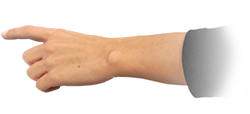
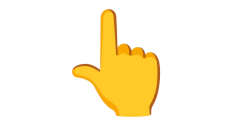
Correção do Site

diff --git a/multimidia.html b/multimidia.html
@@ -55,7 +55,20 @@
               <h1>Sons e Vídeos</h1>
             </hgroup>
           </header>
-          <p></p>
+          <p>
+            A internet discada (ou dial-up) foi a tecnologia pioneira que
+            popularizou o acesso à rede mundial entre os anos 1990 e início dos
+            anos 2000. O sistema funcionava por meio das linhas telefônicas
+            convencionais, o que significava que o telefone ficava completamente
+            ocupado durante a navegação. O processo de conexão era marcado por
+            um som característico de chiado eletrônico emitido pelo modem, e o
+            uso costumava ser concentrado nas madrugadas e finais de semana
+            devido às tarifas telefônicas mais baratas por pulso.
+          </p>
+          <p>
+            Veja um Vídeo explicatico, e logo abaixo um som característico que
+            marcou uma geração
+          </p>
           <div id="tv-radio">
             <audio
               id="musica"

diff --git a/css/estilo.css b/css/estilo.css
@@ -276,6 +276,7 @@ video#filme1 {
   header#cabecalho {
     height: auto;
     min-height: 150px;
+    padding-top: 60px;
     padding-bottom: 60px;
     background-position: 0px 15px;
   }

diff --git a/partes-computador.html b/partes-computador.html
@@ -8,7 +8,7 @@
     <style>
       body {
         font-family: Arial;
-        font-size: 10pt;
+        font-size: 8pt;
       }
       p {
         text-align: justify;
